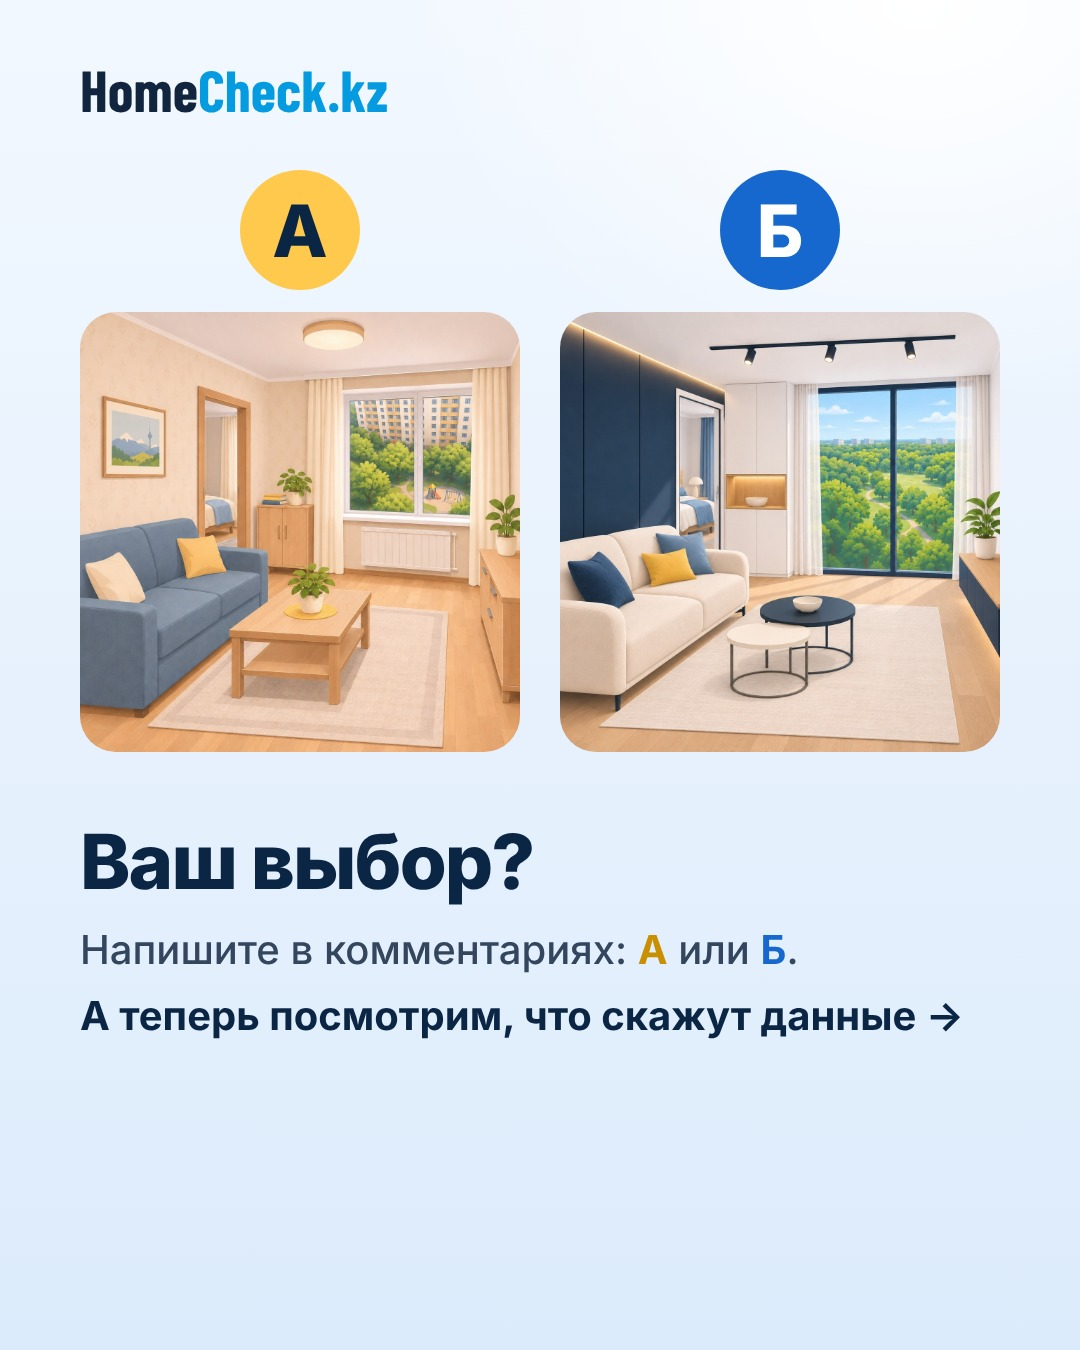
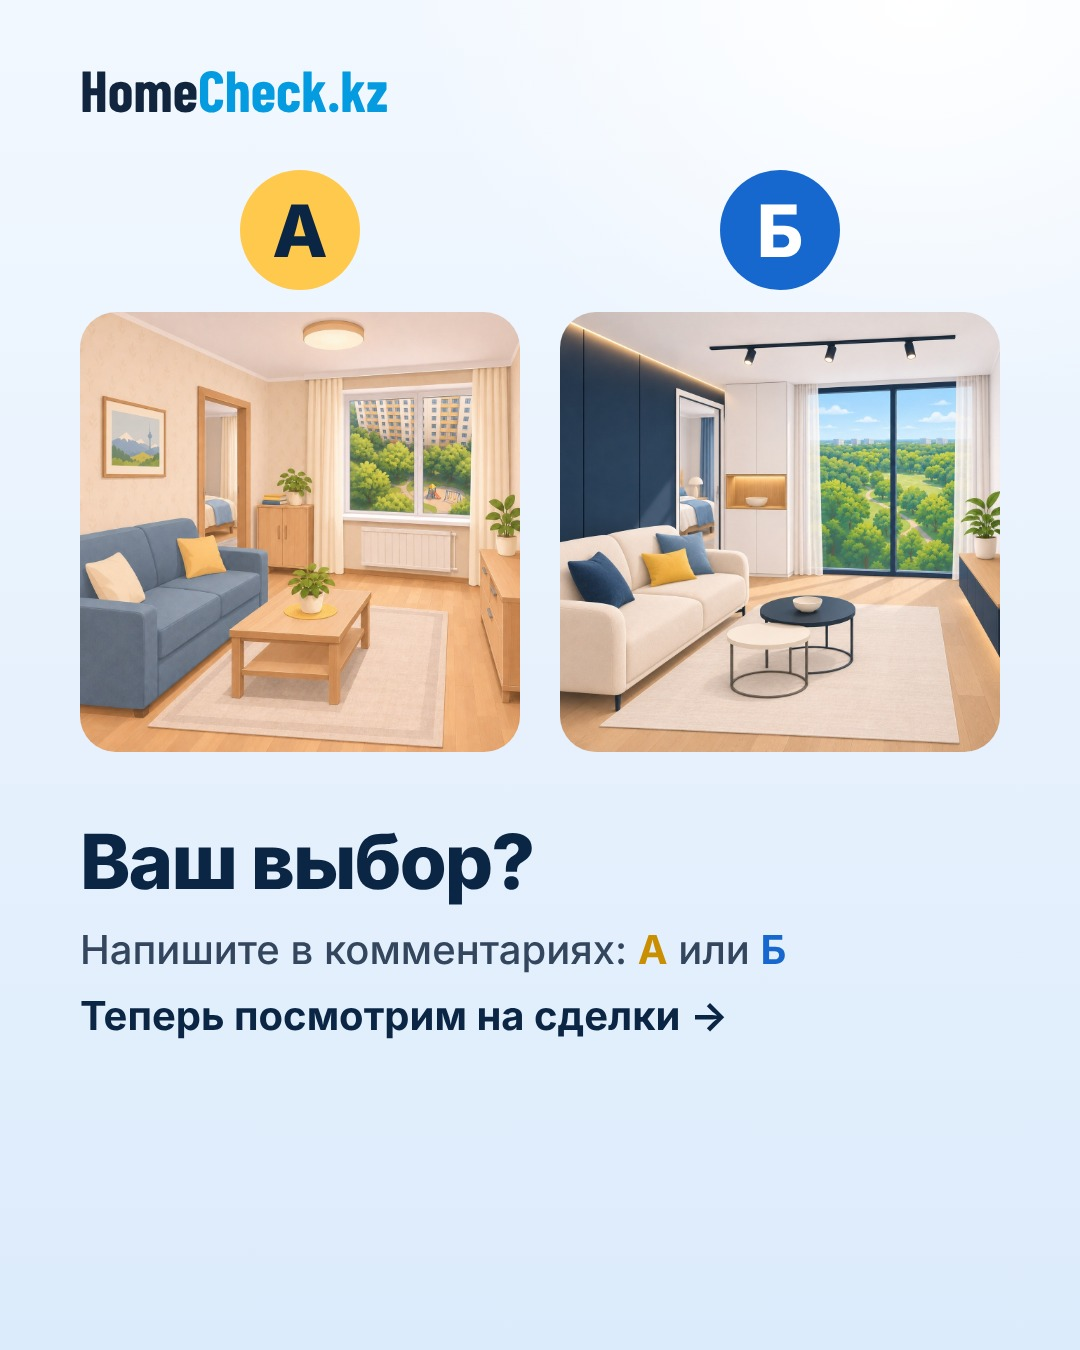
Две квартиры: упрощённые формулировки и подпись
Claude-Session: https://claude.ai/code/session_01YPTRhbcfXRBnSeVtmn8ipe

Changed region(s): [[0.0611, 0.7467, 0.8861, 0.7778]]

diff --git a/posts/2026-11-23-dve-kvartiry/build.py b/posts/2026-11-23-dve-kvartiry/build.py
@@ -47,8 +47,8 @@ def badge(k, size=84, fs=48):
 
 # 1 — обложка: картинка на весь слайд, текст в небе, метки А и Б на домах
 S1 = page(f'<img src="{IMG["houses"]}" style="position:absolute;inset:0;width:1080px;height:1350px;object-fit:cover">'
-          f'<div class="col" style="top:170px"><h1 class="t">Две похожие квартиры в&nbsp;соседних домах</h1>'
-          f'<p class="p b" style="margin-top:22px">Какую выберете вы? Листайте →</p></div>'
+          f'<div class="col" style="top:170px"><h1 class="t">Две похожие квартиры. Какую выберете?</h1>'
+          f'<p class="p b" style="margin-top:22px">Листайте →</p></div>'
           f'<div style="position:absolute;left:150px;top:520px;z-index:4">{badge("А", 100, 56)}</div>'
           f'<div style="position:absolute;left:840px;top:520px;z-index:4">{badge("Б", 100, 56)}</div>')
 
@@ -58,11 +58,11 @@ def flat(k, img, rows):
     return (f'<div style="width:440px"><div style="display:flex;align-items:center;gap:18px;margin-bottom:18px">{badge(k, 64, 36)}<span class="p b">Квартира {k}</span></div>'
             f'<div class="card" style="height:400px"><img src="{IMG[img]}" style="width:100%;height:100%;object-fit:cover"></div><div style="margin-top:14px">{r}</div></div>')
 
-S2 = page(f'<div class="col" style="top:170px"><h2 class="t">Цена одинаковая — 40&nbsp;млн&nbsp;₸</h2>'
-          f'<p class="p" style="margin-top:14px">Обе: 64&nbsp;м², 2&nbsp;комнаты</p></div>'
+S2 = page(f'<div class="col" style="top:170px"><h2 class="t">Обе — за&nbsp;40&nbsp;млн&nbsp;₸</h2>'
+          f'<p class="p" style="margin-top:14px">64&nbsp;м², 2&nbsp;комнаты</p></div>'
           f'<div class="col" style="top:430px;display:flex;justify-content:space-between">'
-          + flat('А', 'flat_a', ['<b class=b>5-й</b> этаж', 'Вид <b class=b>во двор</b>', 'Ремонт <b class=b>5&nbsp;лет назад</b>'])
-          + flat('Б', 'flat_b', ['<b class=b>11-й</b> этаж', 'Вид <b class=b>на парк</b>', 'Ремонт <b class=b>свежий</b>'])
+          + flat('А', 'flat_a', ['<b class=b>5</b> этаж', 'Вид <b class=b>во двор</b>', 'Ремонт <b class=b>5&nbsp;лет назад</b>'])
+          + flat('Б', 'flat_b', ['<b class=b>11</b> этаж', 'Вид <b class=b>на парк</b>', '<b class=b>Свежий</b> ремонт'])
           + '</div>', ex=True)
 
 # 3 — ваш выбор
@@ -72,8 +72,8 @@ S3 = page(f'<div class="col" style="top:170px;display:flex;justify-content:space
                     for k, i in [('А', 'flat_a'), ('Б', 'flat_b')])
           + '</div>'
           f'<div class="col" style="top:820px"><h2 class="t">Ваш выбор?</h2>'
-          f'<p class="p" style="margin-top:22px">Напишите в&nbsp;комментариях: <b style="color:#C98F00">А</b> или <b style="color:{BLUE}">Б</b>.</p>'
-          f'<p class="p b" style="margin-top:14px">А теперь посмотрим, что скажут данные →</p></div>')
+          f'<p class="p" style="margin-top:22px">Напишите в&nbsp;комментариях: <b style="color:#C98F00">А</b> или <b style="color:{BLUE}">Б</b></p>'
+          f'<p class="p b" style="margin-top:14px">Теперь посмотрим на&nbsp;сделки →</p></div>')
 
 
 # 4–7 — сравнения
@@ -90,14 +90,14 @@ def versus(section, title, a, b, line, thumbs=('house_a', 'house_b')):
                 f'<p class="p col" style="top:1080px">{line}</p>', ex=True)
 
 
-S4 = versus('Сначала — дома', 'Сколько стоит метр по&nbsp;сделкам', ('590', 'тыс. ₸ за м²'), ('520', 'тыс. ₸ за м²'),
-            'При одинаковой цене квартира&nbsp;Б заметно дороже, чем обычно продают в&nbsp;её доме')
-S5 = versus('Сначала — дома', 'Как меняются цены в&nbsp;доме', ('+9%', 'за год'), ('+2%', 'за год'),
-            'Дом А дорожает, Б почти стоит на&nbsp;месте. Это важно, если когда-нибудь решите продать')
+S4 = versus('', 'Цена метра в&nbsp;доме', ('590', 'тыс. ₸ за м²'), ('520', 'тыс. ₸ за м²'),
+            'За&nbsp;Б просят больше, чем обычно платят в&nbsp;её доме')
+S5 = versus('', 'Как растут цены', ('+9%', 'за год'), ('+2%', 'за год'),
+            'Дом А дорожает, Б — почти нет')
 S6 = versus('Сначала — дома', 'Как часто здесь перепродают', ('1 из 20', 'квартир за год'), ('1 из 7', 'квартир за год'),
             'Если в&nbsp;доме часто продают, стоит узнать почему')
-S7 = versus('Теперь — квартиры', 'История самих квартир', ('7 лет', 'одни владельцы'), ('2 раза', 'продавали за&nbsp;3&nbsp;года'),
-            '', thumbs=('flat_a', 'flat_b'))
+S7 = versus('', 'Как часто продавали квартиру', ('7 лет', 'один владелец'), ('2', 'продажи за&nbsp;3&nbsp;года'),
+            'Б часто меняет хозяев', thumbs=('flat_a', 'flat_b'))
 
 # 8 — что получается
 S8 = page(f'<img src="{IMG["cafe"]}" style="position:absolute;left:0;top:0;width:1080px;height:640px;object-fit:cover;object-position:50% 0%">'
@@ -105,9 +105,9 @@ S8 = page(f'<img src="{IMG["cafe"]}" style="position:absolute;left:0;top:0;width
           f'<div style="position:absolute;left:0;top:420px;width:1080px;height:230px;z-index:2;background:linear-gradient(180deg,rgba(230,241,253,0),#E6F1FD)"></div>'
           f'<div class="col" style="top:600px"><h2 class="t">Что получается</h2>'
           f'<div style="display:flex;gap:26px;margin-top:34px;align-items:flex-start">{badge("А", 72, 40)}'
-          f'<p class="p" style="flex:1">Цена близка к&nbsp;сделкам в&nbsp;доме, дом дорожает, история понятная</p></div>'
+          f'<p class="p" style="flex:1">Цена в&nbsp;рынке, понятная история</p></div>'
           f'<div style="display:flex;gap:26px;margin-top:30px;align-items:flex-start">{badge("Б", 72, 40)}'
-          f'<p class="p" style="flex:1">Дороже сделок в&nbsp;доме, цены почти не&nbsp;растут, квартиру недавно перепродали. <b class=b>Есть о&nbsp;чём спросить продавца</b></p></div></div>')
+          f'<p class="p" style="flex:1">Дороже рынка — <b class=b>есть вопросы к&nbsp;продавцу</b></p></div></div>')
 
 # 9 — финал: картинка на весь слайд, текст в небе
 S9 = page(f'<img src="{IMG["balcony"]}" style="position:absolute;inset:0;width:1080px;height:1350px;object-fit:cover;object-position:50% 50%">'
